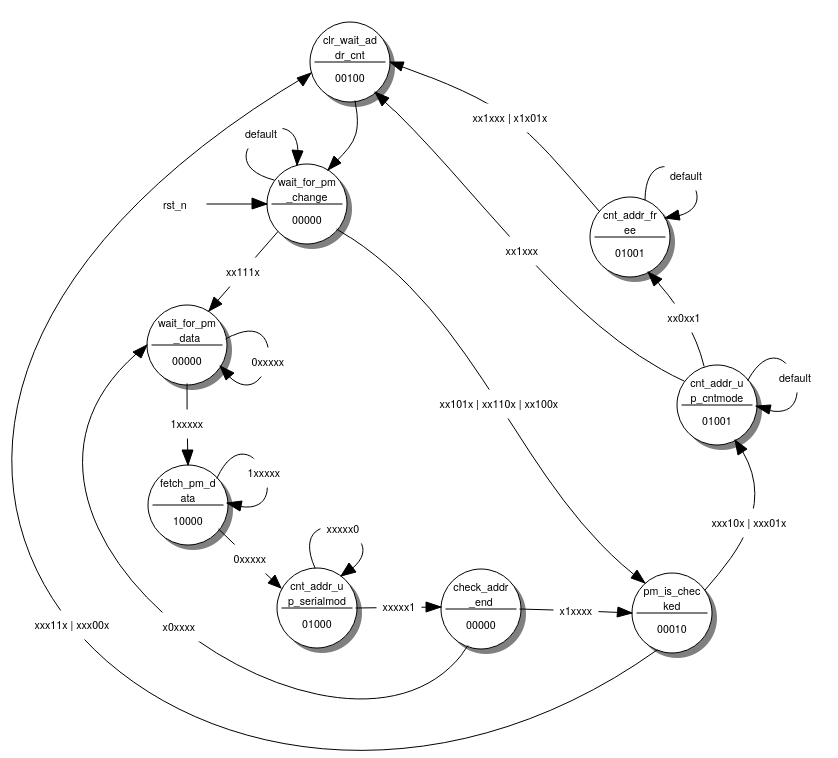
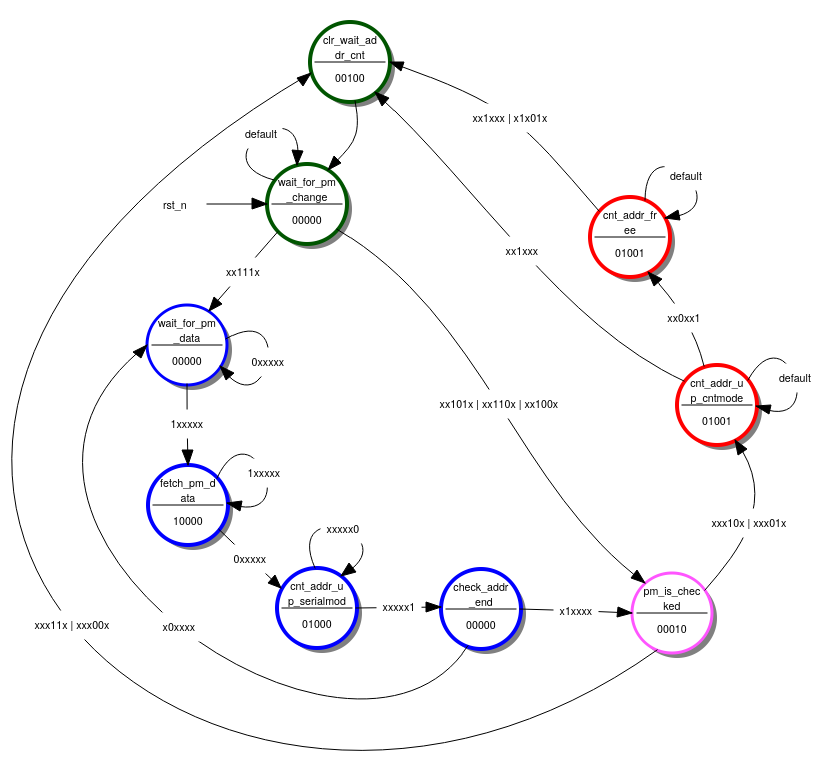
updated report, nearing a complete first draft

diff --git a/doc/test_signal_generator_report.md b/doc/test_signal_generator_report.md
@@ -42,11 +42,12 @@ An external time base allows for the entire TSG to be configured based on the sy
 
 Functional Description
 ======================
-- describe the theory of the components
 
 ## UART serial communication
 UART communication is a common form of data communication between electriconic devices. It communicated the data serially in the form of digital signals.
+
 ![UART Example- Schematic](images/uart_sample.png){width=80%}
+
 UART communication has some characteristics that need to be considered for implementation.
 The signal begins with start bit (in the form of a high signal), the next in the sequence comes the data bits, the number of data bits is configurable and is dependant on the parameterisation of the serial modules.
 After the data sequence is complete, UART protocol then instructs you to send a stop bit, which is again a high signal.
@@ -54,6 +55,7 @@ After the data sequence is complete, UART protocol then instructs you to send a 
 
 ## Digital pattern generator
 
+![Expected output of the pattern generator](images/pattern_output_wavedrom.png){width=100%}
 
 Digital Pattern Generators are a common way of creating signal for testing.
 Theoretically the Pattern Generator should allow the user to output a configurable pattern.
@@ -65,7 +67,9 @@ Pulse Width Moduation (PWM) is a type of digital signal that has many uses for r
 PWM funtions by switching between low and high signals to the requested amounts by the user. For each cycle, the signal will be high for the requested percentage. This is known as the Duty Cycle.
 
 $Period=\frac{1}{f}$
+
 $Period=T_{on}+T_{off}$
+
 $DutyCycle=\frac{T_{on}}{T_{on}+T_{off}}\times100$
 
 ## Pseudo-random number generator (LFSR)
@@ -79,6 +83,7 @@ The number of cycles until the pseudo random number generator repeats himself is
   $number~of~cycles = 2^{n} -1$
 
 With $n$ as number of bits.
+
 # General Description
 
 ![Test Signal Generator Schematic Symbol](images/tsg.png){width=40%}
@@ -90,7 +95,7 @@ With $n$ as number of bits.
 | en_tsg_pi       | std_ulogic            | IN            | HIGH         | external time base                |
 | en_serial_i     | std_ulogic            | IN            | HIGH         | oversample of 16, baudrate 9600                |
 | serial_data_i   | std_ulogic            | IN            | HIGH         | serial data, baudrate 9600                |
-| rxd_rdy_o       | std_ulogic            | OUT           | HIGH         | debugging signal, serial data ready to read                |
+| rxd_rdy_o       | std_ulogic            | OUT           | HIGH         | serial data ready to read                |
 | ext_trig_i      | std_ulogic            | IN            | HIGH         | external trigger                |
 | pwm_o           | std_ulogic            | OUT           | HIGH         | pwm signal                |
 | noise_o         | std_ulogic            | OUT           | HIGH         | 1 bit pseudo random noise                |
@@ -98,10 +103,10 @@ With $n$ as number of bits.
 | eoc_o           | std_ulogic            | OUT           | HIGH         | end of cycle of pseudo random noise               |
 | pattern_o       | std_ulogic_vector[8]  | OUT           | HIGH         | pattern output                |
 | pattern_valid_o | std_ulogic            | OUT           | HIGH         | pattern valid |
-| tc_pm_count_o   | std_ulogic            | OUT           | HIGH         | debugging signal, end of cycle pm upcounter                |
-| regfile_o       | std_ulogic_vector[8]  | OUT           | HIGH         | debugging signal, data input register file                |
-| addr_reg_o      | std_ulogic_vector[8]  | OUT           | HIGH         | debugging signal, address output serial register
-| data_reg_o      | std_ulogic_vector[8]  | OUT           | HIGH         | debugging signal, data output of serial registers                |
+| tc_pm_count_o   | std_ulogic            | OUT           | HIGH         | end of cycle pm upcounter                |
+| regfile_o       | std_ulogic_vector[8]  | OUT           | HIGH         | data input register file                |
+| addr_reg_o      | std_ulogic_vector[8]  | OUT           | HIGH         | address output serial register
+| data_reg_o      | std_ulogic_vector[8]  | OUT           | HIGH         | data output of serial registers                |
 
 : Test Signal Generator - Description of I/O Signals
 
@@ -213,6 +218,41 @@ base which is further divided by the individual period settings. All three compo
 have the same frequency divider component. The divided frequency can be calculated by the following formula:
 
 $divided~frequency=\frac{frequency~of~external~time~base}{period~register~value+1}$
+
+## Pwm component
+
+![Pwm implementation](images/pwm_implementation.png){width=30%}
+
+With the implemented pwm component a duty cycle of 0%-99,6% percent is possible. It
+can be computed by $duty~cycle=\frac{pwm~pulse~width}{256}$. One counting cycle is performed 
+with the frequency of the divided frequency. This results in a frequency of $\frac{divided~frequency}{256}$.
+
+## Noise component
+
+The noise component has an noise prbsg length and a period setting. The prbsg setting decides how many bits the 
+lfsr has. That means it decides over the length of the pseudo random sequence until it repeats itself. They are designed 
+after the given standards of pseudo random number generators and have different use cases. For more information about it 
+see the standard documentations. One full cycle 
+has the frequency of $\frac{divided~frequency}{2^{n}-1}$ with $n$ as the number of bits of the lfsr.
+
+## Pattern component
+
+The pattern generator has four possible control states:
+- stop
+  - the pattern generator is switched off
+- load
+  - the pattern generator is ready to receive the data sequence into its memory
+  - before sending the number sequence the number of values must be specified in the pattern length register!
+    - e.g. pattern length 4 -> pattern load -> pattern sequence 4 5 7 2 -> single burst/continous run
+- single burst
+  - a single burst puts out the sequence only once
+- continous run
+  - puts out the sequence forever
+  - stops when the pattern control bits change 
+One value of a sequence is available for the time of $\frac{1}{divided~frequency}$. A full cycle that includes 
+all values has the frequency of $\frac{divided~frequency}{pattern~length}$.
+
+
 Design Description
 ==================
 
@@ -243,32 +283,42 @@ This state machine directly communicates with the other state machine present on
 
 ![UART Serial Reciever State Machine File - Schematic](images/serial_receiver_fsm.png){width=80%}
 
-| rxd_rec | addr | pm_checked | Description |  
-|---------|------|------------|-------------|
-| 0       | xxxx | x          |             | 
-| 1       | xxxx | x          |             |
-| 1       | xxxx | x          |             |
-|         | xxxx | x          |             | 
-|         |      |            |             |
+Colours on the state machine represent:
 
-| end_addr_reg | en_data_reg | en_regfile_wr | pm_control_changed | Description |
-|--------------|-------------|---------------|--------------------|-------------|
-| 0            | 0           | 0             | 0                  |             |
-|             |         |             |                    |             |
-|              |            |               |                    |             |
-|              |             |               |                    |             |
-|              |             |               |                    |             |
-|              |             |               |                    |             |
-|              |             |               |                    |             |
-|              |             |               |                    |             |
+- Blue: This is a workaround to handle the ```rxd_rdy``` signal causing errors in the operation. More information below.
+- Red: This aspect of the state machine manages the reciept of the address and data information.
+- Green: These states are to check if there is a change in the signal from pattern control. If there is a change, it then goes to the pink state.
+- Pink: This single state is responsible for the communication with the Pattern State Machine.
+
+```pure
+ Inputs:   rxd_rec   addr[3..0]      pm_checked
+
+ State/Output                    en_addr_reg en_data_reg en_regfile_wr pm_control_changed
+ wait_for_addr_s                 0           0           0             0                  
+ fetch_addr_s                    1           0           0             0                  
+ wait_for_data_s                 0           0           0             0                  
+ fetch_data_s                    0           1           0             0                  
+ write_regfile_s                 0           0           1             0                  
+ check_written_addr_s            0           0           0             0                  
+ pattern_control_changed_s       0           0           0             1                  
+ wait_cycle_s                    0           0           0             0                  
+ wait_for_sync_reset_serialrx_s  0           0           0             0                  
+ wait_for_sync_reset_serialrx2_s 0           0           0             0                  
+```
 
 This is then directly wired to the ```serial_reciever_reg.vhd``` module. The purpose is this is for the project to work, the register file (```regfile.vhd```) needs to know both the address and the data values similtaneously - meaning that the information must be stored somewhere. This file takes the values in and stores them to registers temporarily and resets every cycle.
 
+### Data received after reset
+
+![Data out valid after reset](images/rxd_rdy_after_reset.png){width=50%}
+The two states at the beginning of the serial receiver state machine are required to work around a problem that the serial rx component 
+creates. After a reset the serial rx component puts out a data valid signal for one cycle. This seems to be a design problem (see tsg testbench at the beginning: DIN_VLD). 
+Without these states we have the issue that after an reset we would immediately transition to the state were we are waiting for the 
+data. We are skipping the address states. For that reason the first two states are added.
+
 ## Pattern generator
 
-![Expected output of the pattern generator](images/pattern_generator.png){width=40%}
 
-![Implemented Pattern Generator File - Schematic](images/pattern_output_wavedrom.png){width=40%}
 
 | **Name**     | **Type**             | **Direction** | **Polarity** | **Description** |
 |--------------|----------------------|:-------------:|:------------:|-----------------|
@@ -283,28 +333,29 @@ This is then directly wired to the ```serial_reciever_reg.vhd``` module. The pur
 
 ![Pattern Generator State Machine File - Schematic](images/pattern_generator_fsm.png){width=80%}
 
-| en_pm | en_pm_cnt | clr_pm_cnt | pm_cclr_hecked | pattern_valid | Description |
-|-------|-----------|------------|----------------|---------------|-------------|
-| 0     | 0         | 0          | 0              |               |             |
-|       |     |  |                |               |             |
-|       |        |         |                |               |             |
-|       |           |            |                |               |             |
-|       |           |            |                |               |             |
-|       |           |            |                |               |             |
-|       |           |            |                |               |             |
-|       |           |            |                |               |             |
 
-| rxd_rec | tc_pm | pm_control | addr_cnt_enabled | Description |   |
-|---------|-------|------------|------------------|-------------|---|
-| x       | x     | xx         | x                |             |   |
-|         |       |            |                  |             |   |
-|         |       |            |                  |             |   |
-|         |       |            |                  |             |   |
-|         |       |            |                  |             |   |
-|         |       |            |                  |             |   |
-|         |       |            |                  |             |   |
+Colours on the state machine represent:
+
+- Blue: These states deal with the loading of the data and address information.
+- Red: This aspect of the state machine manages a workaround related to the ```tc_pm```. 
+- Green: These states are to manage the initialisation and the reset of the state machine.
+- Pink: This single state is responsible for the communication with the Serial Communication State Machine.
 
 
+```pure
+-- Inputs:   rxd_rec   tc_pm   pm_control_changed   pm_control[1..0]    addr_cnt_enabled
+
+-- State/Output           en_pm en_pm_cnt clr_pm_cnt pm_checked pattern_valid
+-- wait_for_pm_change     0     0         0          0          0             
+-- clr_wait_addr_cnt      0     0         1          0          0             
+-- wait_for_pm_data       0     0         0          0          0             
+-- fetch_pm_data          1     0         0          0          0             
+-- cnt_addr_up_serialmode 0     1         0          0          0             
+-- check_addr_end         0     0         0          0          0             
+-- pm_is_checked          0     0         0          1          0             
+-- cnt_addr_up_cntmode    0     1         0          0          1             
+-- cnt_addr_free          0     1         0          0          1             
+```
 
 ## Pulse-width modulation
 The PWM generator module is connected to one of the instantiations of the freq_control module. The output from the Frequency Control module is input to the generator to assign the total width (and thus the frequency) of the PWM. 
@@ -324,11 +375,38 @@ The PWM generator module is connected to one of the instantiations of the freq_c
 
 ## Pseudo-random number generator (LFSR)
 
-## Enable and external triggering
+
+## External time base and external triggering design
+![Noise/PWM enable and external trigger design](images/noise_pwm_en.png){width=100%}
+To get the external time base and external triggering to work correctly multiple AND gates and multiplexer are needed.
+For the pwm and the noise generator we have the same design. If the noise generator is enabled depends on 
+the following conditions:
+- the whole system is enabled
+- pwm/noise generator is enabled
+- external time base on
+- frequency divider enabled
+When the external triggering of the noise/pwm generator is enabled it should only be controlled by external triggering
+if the system is on and the pwm/noise generator is enabled.
+
+![Pattern enable and external trigger design](images/pattern_en.png){width=100%}
+For the pattern generator a more sophisticated system is needed. We need to differentiate between the four modes of our 
+pattern generator:
+- 00 stop
+- 01 single burst
+- 10 continous run
+- 11 load
+
+In stop and load mode we do not care about the external triggering and the external time base. When loading the pattern generator the
+address upcounter only counts up when the pattern generator state machine gives an signal. Note that the address upcounter decides over the frequency of the pattern output, not the pattern generator (pattern memory) itself. The external trigger, external time base 
+and frequency divider matters when we are in the two run modes. For the external triggering we need the additional signal pattern valid.
+This signal is provided by the pattern generator state machine and is true when the state machine is in a counting state. This is needed 
+for the single burst mode to stop counting after one counting cycle.
 
 
 Test Results
 ============
+
+All of the results were calculated using the formulae mentioned above. 
 
 ## Noise Generator
 Sending serial signals to select the address and the data bit respectively.
@@ -347,8 +425,26 @@ Noise Period:
 Application Note
 ================
 
+![Wiring on DE1 Altera Board](images/de1_tsg.png){width=100%}
+The wiring of the DE1 Board can be seen in the picture above. The test signal generator runs with an 50 MHz clock and a time base of 
+10 MHz on the enable. An synchroniser is added before the serial input to avoid metavalues because of asynchronous serial communication from the pc.
+The outputs of the test signal generator were connected to test components ALU and a 101 sequence detector. On the HEX3 display the
+number of 101 sequences detected is shown. Additionally some outputs are connected to the GPIOs
+for measurements. For the connections see ```de1_tsg_structure.vhd```.
+![Connected components on DE1 Altera Board](images/de1_tsg_wiring.png){width=100%}
+
+
 Further Improvements
 ====================
+
+In the system control register is a bit included to do an synchronous clear over serial communication. It adds another possibility to 
+reset the states of the synchronous components. At the moment only the asynchronous reset is available. To add this functionality 
+an synchronous reset needs to be added to every component except the memory components (register file, pattern generator) and the address upcounter (has already one).
+
+When the pwm module is switched off either by the system control or the pwm control the counters in the frequency control and pwm 
+generator are kept in their current counting state. This could result in an constant output of a one. To solve this problem it is 
+recommended to put in a switch in the pwm generator that puts out zero when the system control AND pwm control is zero. This approach 
+is already implemented for the noise generator and can be implemented in the same way (see input en_noise_generator_i).
 
 References
 ==========
